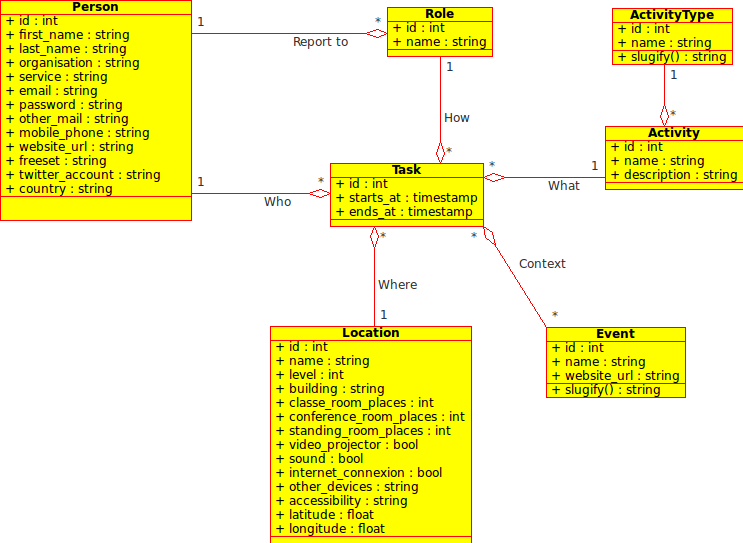
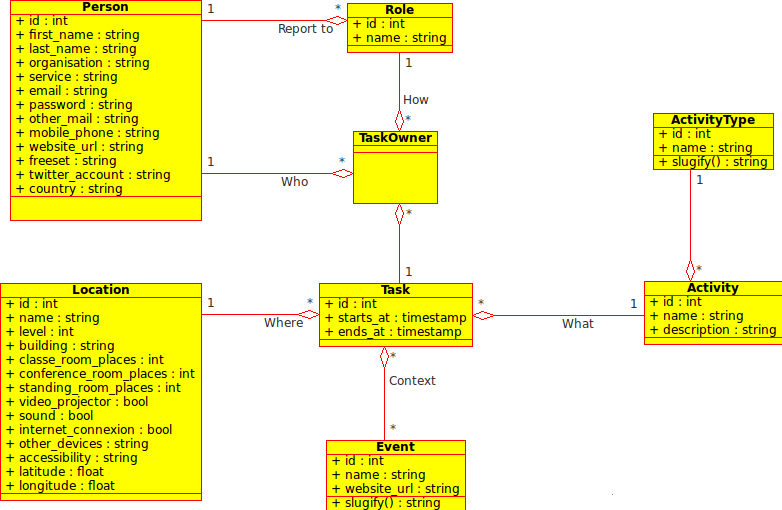
Work on location data design move role entity in UserBundle

diff --git a/web/css/main.css b/web/css/main.css
@@ -471,8 +471,62 @@ body > header > form > .actions > a:hover
 {
   top: 30px;
   left: -1px;
-  width: 300px;
+  width: 350px;
 }
+
+/* Fla */
+#main #calendar .column > .header > .data > div
+{
+  margin: 5px; 
+  border-bottom: 1px solid #CCC;
+}
+
+#main #calendar .column > .header > .data > div > strong
+{
+  font-size: 12px;
+  font-weight: bold;
+  line-height: 16px;
+  padding-left: 20px;
+  margin: 8px 0 4px;
+  display: block;
+}
+
+#main #calendar .column > .header > .data > div > ul
+{
+  padding: 4px 10px;
+  overflow: auto;
+}
+
+#main #calendar .column > .header > .data > div > ul > li
+{
+  float: left;
+  line-height: 16px;
+  padding-left: 20px;
+  margin-right: 8px;
+}
+
+#main #calendar .column > .header > .data > div.equipement > ul > li
+{
+  text-indent: -9999px;
+  display: block;
+}
+
+#main #calendar .column > .header > .data > div.location { background: url('/images/location.png') no-repeat; }
+#main #calendar .column > .header > .data > div > ul > li.building { background: url('/images/building.png') no-repeat; }
+#main #calendar .column > .header > .data > div > ul > li.level { background: url('/images/level.png') no-repeat; }
+#main #calendar .column > .header > .data > div > ul > li.accessibility { background: url('/images/accessibility.png') no-repeat; }
+#main #calendar .column > .header > .data > div > ul > li.map { background: url('/images/map.png') no-repeat; }
+#main #calendar .column > .header > .data > div.places { background: url('/images/places.png') no-repeat; }
+#main #calendar .column > .header > .data > div > ul > li.class_room_places { background: url('/images/class.png') no-repeat; }
+#main #calendar .column > .header > .data > div > ul > li.conference_room_places { background: url('/images/conf.png') no-repeat; }
+#main #calendar .column > .header > .data > div > ul > li.standing_room_places { background: url('/images/stand.png') no-repeat; }
+#main #calendar .column > .header > .data > div.equipement { background: url('/images/equipment.png') no-repeat; }
+#main #calendar .column > .header > .data > div > ul > li.video_projector { background: url('/images/video.png') no-repeat; }
+#main #calendar .column > .header > .data > div > ul > li.sound { background: url('/images/sound.png') no-repeat; }
+#main #calendar .column > .header > .data > div > ul > li.internet { background: url('/images/internet.png') no-repeat; }
+#main #calendar .column > .header > .data > div > ul > li.other_devices { background: url('/images/other.png') no-repeat; }
+
+/* end fla */
 
 #main #calendar .column.room > ul > li .task .data
 {

diff --git a/src/W4H/Bundle/CalendarBundle/Form/CalendarFilterType.php b/src/W4H/Bundle/CalendarBundle/Form/CalendarFilterType.php
@@ -31,6 +31,13 @@ class CalendarFilterType extends AbstractType
                 'expanded' => true,
                 'multiple' => true
             ))
+            ->add('locations', 'entity', array(
+                'class'    => 'W4HLocationBundle:Location',
+                'label'    => 'Location',
+                'required' => true,
+                'expanded' => true,
+                'multiple' => true
+            ))
             ->add('activities', 'entity', array(
                 'class'    => 'W4HEventTaskBundle:Activity',
                 'label'    => 'Activity',
@@ -39,15 +46,8 @@ class CalendarFilterType extends AbstractType
                 'multiple' => true
             ))
             ->add('roles', 'entity', array(
-                'class'    => 'W4HEventTaskBundle:Role',
+                'class'    => 'W4HUserBundle:Role',
                 'label'    => 'Role',
-                'required' => true,
-                'expanded' => true,
-                'multiple' => true
-            ))
-            ->add('locations', 'entity', array(
-                'class'    => 'W4HLocationBundle:Location',
-                'label'    => 'Location',
                 'required' => true,
                 'expanded' => true,
                 'multiple' => true

diff --git a/src/W4H/Bundle/EventTaskBundle/Admin/TaskAdmin.php b/src/W4H/Bundle/EventTaskBundle/Admin/TaskAdmin.php
@@ -15,9 +15,7 @@ class TaskAdmin extends Admin
             ->add('starts_at')
             ->add('ends_at')
             ->add('activity')
-            ->add('role')
             ->add('event')
-            //->add('person')
             ->add('location')
         ;
     }
@@ -28,9 +26,7 @@ class TaskAdmin extends Admin
             ->add('starts_at')
             ->add('ends_at')
             ->add('activity')
-            ->add('role')
             ->add('event')
-            //->add('person')
             ->add('location')
         ;
     }
@@ -41,9 +37,7 @@ class TaskAdmin extends Admin
             ->addIdentifier('starts_at')
             ->addIdentifier('ends_at')
             ->addIdentifier('activity')
-            ->addIdentifier('role')
             ->addIdentifier('event')
-            //->addIdentifier('person')
             ->addIdentifier('location')
         ;
     }

diff --git a/src/W4H/Bundle/EventTaskBundle/Entity/Task.php b/src/W4H/Bundle/EventTaskBundle/Entity/Task.php
@@ -42,11 +42,6 @@ class Task
     protected $activity;
 
     /**
-     * @ORM\ManyToOne(targetEntity="W4H\Bundle\EventTaskBundle\Entity\Role")
-     */
-    protected $role;
-
-    /**
      * @ORM\ManyToOne(targetEntity="W4H\Bundle\EventTaskBundle\Entity\Event")
      */
     protected $event;
@@ -154,26 +149,6 @@ class Task
     public function getActivity()
     {
         return $this->activity;
-    }
-
-    /**
-     * Set role
-     *
-     * @param W4H\Bundle\EventTaskBundle\Entity\Role $role
-     */
-    public function setRole(\W4H\Bundle\EventTaskBundle\Entity\Role $role)
-    {
-        $this->role = $role;
-    }
-
-    /**
-     * Get role
-     *
-     * @return W4H\Bundle\EventTaskBundle\Entity\Role 
-     */
-    public function getRole()
-    {
-        return $this->role;
     }
 
     /**

diff --git a/src/W4H/Bundle/UserBundle/DataFixtures/ORM/LoadRoleData.php b/src/W4H/Bundle/UserBundle/DataFixtures/ORM/LoadRoleData.php
@@ -1,9 +1,9 @@
 <?php
-namespace W4H\Bundle\EventTaskBundle\DataFixtures\ORM;
+namespace W4H\Bundle\UserBundle\DataFixtures\ORM;
 
 use Doctrine\Common\DataFixtures\FixtureInterface;
 use Doctrine\Common\Persistence\ObjectManager;
-use W4H\Bundle\EventTaskBundle\Entity\Role;
+use W4H\Bundle\UserBundle\Entity\Role;
 
 class LoadRoleData implements FixtureInterface
 {

diff --git a/src/W4H/Bundle/UserBundle/Entity/Role.php b/src/W4H/Bundle/UserBundle/Entity/Role.php
@@ -1,5 +1,5 @@
 <?php
-namespace W4H\Bundle\EventTaskBundle\Entity;
+namespace W4H\Bundle\UserBundle\Entity;
 
 use Gedmo\Mapping\Annotation as Gedmo;
 use Doctrine\ORM\Mapping as ORM;
@@ -29,6 +29,7 @@ class Role
 
     public function __toString()
     {
+        return 'role';
         return $this->getName();
     }
 

diff --git a/src/W4H/Bundle/EventTaskBundle/Form/TaskType.php b/src/W4H/Bundle/EventTaskBundle/Form/TaskType.php
@@ -13,7 +13,6 @@ class TaskType extends AbstractType
             ->add('starts_at')
             ->add('ends_at', 'datetime')
             ->add('activity', 'datetime')
-            ->add('role')
             ->add('event')
             ->add('location')
         ;

diff --git a/src/W4H/Bundle/UserBundle/Admin/RoleAdmin.php b/src/W4H/Bundle/UserBundle/Admin/RoleAdmin.php
@@ -1,5 +1,5 @@
 <?php
-namespace W4H\Bundle\EventTaskBundle\Admin;
+namespace W4H\Bundle\UserBundle\Admin;
 
 use Sonata\AdminBundle\Admin\Admin;
 use Sonata\AdminBundle\Datagrid\ListMapper;

diff --git a/README.md b/README.md
@@ -10,6 +10,8 @@ Authors
 
  * Gabriel BONDAZ <gabriel.bondaz@idci-consulting.fr>
  * Alain MILLE <alain.mille@univ-lyon1.fr>
+ * Pierre FERROLLIET <pierrre.ferrolliet@idci-consulting.fr>
+ * Flavie LABOURE <flavie.laboure@gmail.com>
 
 
 Licence
